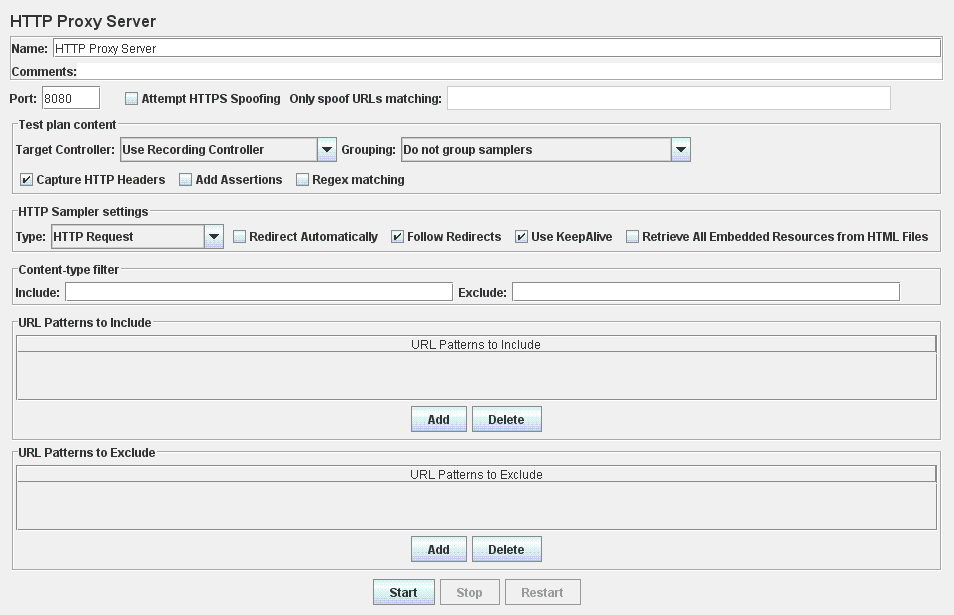
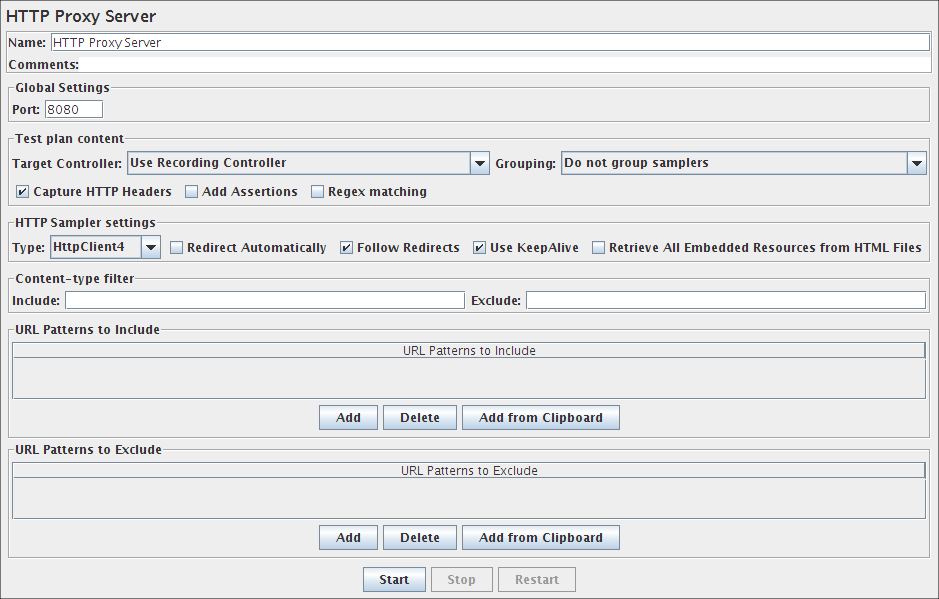
Removes HTTPS spoofing options in JMeter HTTP Proxy Server. Since JMeter 2.4, the HTTPS protocol is directly supported by the proxy Bugzilla Id: 53934
git-svn-id: https://svn.apache.org/repos/asf/jmeter/trunk@1390191 13f79535-47bb-0310-9956-ffa450edef68

Former-commit-id: 3f5d0f9fddb3ae9d57ec142e462b426c848c7ee4

Changed region(s): [[0.0, 0.0, 1.0, 1.0]]

diff --git a/src/protocol/http/org/apache/jmeter/protocol/http/proxy/Proxy.java b/src/protocol/http/org/apache/jmeter/protocol/http/proxy/Proxy.java
@@ -38,7 +38,6 @@ import java.security.UnrecoverableKeyException;
 import java.security.cert.CertificateException;
 import java.util.HashMap;
 import java.util.Map;
-import java.util.regex.Pattern;
 
 import javax.net.ssl.KeyManagerFactory;
 import javax.net.ssl.SSLContext;
@@ -112,8 +111,6 @@ public class Proxy extends Thread {
 
     private static final SamplerCreatorFactory factory = new SamplerCreatorFactory();
 
-    private static final Pattern COOKIE_SECURE_PATTERN = Pattern.compile("\\bsecure\\b", Pattern.CASE_INSENSITIVE);
-
     // Use with SSL connection
     private OutputStream outStreamClient = null;
 
@@ -131,11 +128,6 @@ public class Proxy extends Thread {
 
     /** Whether or not to capture the HTTP headers. */
     private boolean captureHttpHeaders;
-
-    /** Whether to try to spoof as https **/
-    private boolean httpsSpoof;
-
-    private String httpsSpoofMatch; // if non-empty, then URLs must match in order to be spoofed
 
     /** Reference to Deamon's Map of url string to page character encoding of that page */
     private Map<String, String> pageEncodings;
@@ -167,8 +159,6 @@ public class Proxy extends Thread {
         this.target = _target;
         this.clientSocket = _clientSocket;
         this.captureHttpHeaders = _target.getCaptureHttpHeaders();
-        this.httpsSpoof = _target.getHttpsSpoof();
-        this.httpsSpoofMatch = _target.getHttpsSpoofMatch();
         this.pageEncodings = _pageEncodings;
         this.formEncodings = _formEncodings;
     }
@@ -218,46 +208,15 @@ public class Proxy extends Thread {
             headers = request.getHeaderManager();
             sampler.setHeaderManager(headers);
 
-            /*
-             * If we are trying to spoof https, change the protocol
-             */
-            boolean forcedHTTPS = false; // so we know when to revert
-            if (httpsSpoof) {
-                if (httpsSpoofMatch.length() > 0){
-                    String url = request.getUrl();
-                    if (url.matches(httpsSpoofMatch)){
-                        sampler.setProtocol(HTTPConstants.PROTOCOL_HTTPS);
-                        forcedHTTPS = true;
-                    }
-                } else {
-                    sampler.setProtocol(HTTPConstants.PROTOCOL_HTTPS);
-                    forcedHTTPS = true;
-                }
-            }
             sampler.threadStarted(); // Needed for HTTPSampler2
             result = sampler.sample();
-
-            /*
-             * If we're dealing with text data, and if we're spoofing https,
-             * replace all occurences of "https://" with "http://" for the client.
-             * TODO - also check the match string to restrict the changes further?
-             */
-            if (httpsSpoof && SampleResult.TEXT.equals(result.getDataType()))
-            {
-                final String enc = result.getDataEncodingWithDefault();
-                String noHttpsResult = new String(result.getResponseData(),enc);
-                final String HTTPS_HOST = // match https://host[:port]/ and drop default port if present
-                    "https://([^:/]+)(:"+HTTPConstants.DEFAULT_HTTPS_PORT_STRING+")?"; // $NON-NLS-1$ $NON-NLS-2$
-                noHttpsResult = noHttpsResult.replaceAll(HTTPS_HOST, "http://$1"); // $NON-NLS-1$
-                result.setResponseData(noHttpsResult.getBytes(enc));
-            }
 
             // Find the page encoding and possibly encodings for forms in the page
             // in the response from the web server
             String pageEncoding = addPageEncoding(result);
             addFormEncodings(result, pageEncoding);
 
-            writeToClient(result, new BufferedOutputStream(clientSocket.getOutputStream()), forcedHTTPS);
+            writeToClient(result, new BufferedOutputStream(clientSocket.getOutputStream()));
         } catch (UnknownHostException uhe) {
             log.warn("Server Not Found.", uhe);
             writeErrorToClient(HttpReplyHdr.formServerNotFound());
@@ -437,9 +396,9 @@ public class Proxy extends Thread {
      * @throws IOException
      *             if an IOException occurs while writing
      */
-    private void writeToClient(SampleResult res, OutputStream out, boolean forcedHTTPS) throws IOException {
+    private void writeToClient(SampleResult res, OutputStream out) throws IOException {
         try {
-            String responseHeaders = messageResponseHeaders(res, forcedHTTPS);
+            String responseHeaders = messageResponseHeaders(res);
             out.write(responseHeaders.getBytes(SampleResult.DEFAULT_HTTP_ENCODING));
             out.write(CRLF_BYTES);
             out.write(res.getResponseData());
@@ -464,15 +423,14 @@ public class Proxy extends Thread {
      * The Transfer-Encoding header is also removed.
      * If the protocol was changed to HTTPS then change any Location header back to http
      * @param res - response
-     * @param forcedHTTPS  if we changed the protocol to https
      *
      * @return updated headers to be sent to client
      */
-    private String messageResponseHeaders(SampleResult res, boolean forcedHTTPS) {
+    private String messageResponseHeaders(SampleResult res) {
         String headers = res.getResponseHeaders();
         String [] headerLines=headers.split(NEW_LINE, 0); // drop empty trailing content
         int contentLengthIndex=-1;
-        boolean fixContentLength = forcedHTTPS;
+        boolean fixContentLength = false;
         for (int i=0;i<headerLines.length;i++){
             String line=headerLines[i];
             String[] parts=line.split(":\\s+",2); // $NON-NLS-1$
@@ -492,16 +450,6 @@ public class Proxy extends Thread {
                 if (HTTPConstants.HEADER_CONTENT_LENGTH.equalsIgnoreCase(parts[0])){
                     contentLengthIndex=i;
                     continue;
-                }
-                final String HTTPS_PREFIX = "https://";
-                if (forcedHTTPS && HTTPConstants.HEADER_LOCATION.equalsIgnoreCase(parts[0])
-                        && parts[1].substring(0, HTTPS_PREFIX.length()).equalsIgnoreCase(HTTPS_PREFIX)){
-                    headerLines[i]=headerLines[i].replaceFirst(parts[1].substring(0,HTTPS_PREFIX.length()), "http://");
-                    continue;
-                }
-                if (forcedHTTPS && (HTTPConstants.HEADER_COOKIE.equalsIgnoreCase(parts[0]) || HTTPConstants.HEADER_SET_COOKIE.equalsIgnoreCase(parts[0])))
-                {
-                    headerLines[i]=COOKIE_SECURE_PATTERN.matcher(headerLines[i]).replaceAll("").trim(); //in forced https cookies need to be unsecured...
                 }
             }
         }

diff --git a/src/protocol/http/org/apache/jmeter/protocol/http/proxy/gui/ProxyControlGui.java b/src/protocol/http/org/apache/jmeter/protocol/http/proxy/gui/ProxyControlGui.java
@@ -133,17 +133,6 @@ public class ProxyControlGui extends LogicControllerGui implements JMeterGUIComp
      */
     private JCheckBox samplerDownloadImages;
 
-    /*
-     * Spoof the client into thinking that it is communicating with http
-     * even if it is really https.
-     */
-    private JCheckBox httpsSpoof;
-
-    /*
-     * Only spoof the URLs that match (optional)
-     */
-    private JTextField httpsMatch;
-
     /**
      * Regular expression to include results based on content type
      */
@@ -246,8 +235,6 @@ public class ProxyControlGui extends LogicControllerGui implements JMeterGUIComp
             model.setUseKeepAlive(useKeepAlive.isSelected());
             model.setSamplerDownloadImages(samplerDownloadImages.isSelected());
             model.setRegexMatch(regexMatch.isSelected());
-            model.setHttpsSpoof(httpsSpoof.isSelected());
-            model.setHttpsSpoofMatch(httpsMatch.getText());
             model.setContentTypeInclude(contentTypeInclude.getText());
             model.setContentTypeExclude(contentTypeExclude.getText());
             TreeNodeWrapper nw = (TreeNodeWrapper) targetNodes.getSelectedItem();
@@ -306,9 +293,6 @@ public class ProxyControlGui extends LogicControllerGui implements JMeterGUIComp
         useKeepAlive.setSelected(model.getUseKeepalive());
         samplerDownloadImages.setSelected(model.getSamplerDownloadImages());
         regexMatch.setSelected(model.getRegexMatch());
-        httpsSpoof.setSelected(model.getHttpsSpoof());
-        httpsMatch.setText(model.getHttpsSpoofMatch());
-        httpsMatch.setEnabled(httpsSpoof.isSelected()); // Only valid if Spoof is selected
         contentTypeInclude.setText(model.getContentTypeInclude());
         contentTypeExclude.setText(model.getContentTypeExclude());
 
@@ -358,7 +342,6 @@ public class ProxyControlGui extends LogicControllerGui implements JMeterGUIComp
             startProxy();
         } else if (command.equals(ENABLE_RESTART)){
             enableRestart();
-            httpsMatch.setEnabled(httpsSpoof.isSelected()); // Only valid if Spoof is selected
         } else if (command.equals(ADD_EXCLUDE)) {
             excludeModel.addNewRow();
             excludeModel.fireTableDataChanged();
@@ -555,34 +538,17 @@ public class ProxyControlGui extends LogicControllerGui implements JMeterGUIComp
         JLabel label = new JLabel(JMeterUtils.getResString("port")); // $NON-NLS-1$
         label.setLabelFor(portField);
 
-        httpsSpoof = new JCheckBox(JMeterUtils.getResString("proxy_httpsspoofing")); // $NON-NLS-1$
-        httpsSpoof.setSelected(false);
-        httpsSpoof.addActionListener(this);
-        httpsSpoof.setActionCommand(ENABLE_RESTART);
-
-        httpsMatch = new JTextField(40);
-        httpsMatch.addKeyListener(this);
-        httpsMatch.setName(ENABLE_RESTART);
-        httpsMatch.setEnabled(false); // Only valid if Spoof is selected
-
-        JLabel matchlabel = new JLabel(JMeterUtils.getResString("proxy_httpsspoofing_match")); // $NON-NLS-1$
-        matchlabel.setLabelFor(httpsMatch);
-
-        
-        HorizontalPanel panel = new HorizontalPanel();
-        panel.setBorder(BorderFactory.createTitledBorder(BorderFactory.createEtchedBorder(),
+        JPanel gPane = new JPanel(new BorderLayout());
+        gPane.setBorder(BorderFactory.createTitledBorder(BorderFactory.createEtchedBorder(),
                 JMeterUtils.getResString("proxy_general_settings"))); // $NON-NLS-1$
 
+        HorizontalPanel panel = new HorizontalPanel();
         panel.add(label);
         panel.add(portField);
 
-        panel.add(Box.createHorizontalStrut(10));
-        panel.add(httpsSpoof);
-
-        panel.add(matchlabel);
-        panel.add(httpsMatch);
-
-        return panel;
+        gPane.add(panel, BorderLayout.WEST);
+        gPane.add(Box.createHorizontalStrut(10));
+        return gPane;
     }
 
     private JPanel createTestPlanContentPanel() {

diff --git a/src/protocol/http/org/apache/jmeter/protocol/http/proxy/ProxyControl.java b/src/protocol/http/org/apache/jmeter/protocol/http/proxy/ProxyControl.java
@@ -125,10 +125,6 @@ public class ProxyControl extends GenericController {
 
     private static final String REGEX_MATCH = "ProxyControlGui.regex_match"; // $NON-NLS-1$
 
-    private static final String HTTPS_SPOOF = "ProxyControlGui.https_spoof"; // $NON-NLS-1$
-
-    private static final String HTTPS_SPOOF_MATCH = "ProxyControlGui.https_spoof_match"; // $NON-NLS-1$
-
     private static final String CONTENT_TYPE_EXCLUDE = "ProxyControlGui.content_type_exclude"; // $NON-NLS-1$
 
     private static final String CONTENT_TYPE_INCLUDE = "ProxyControlGui.content_type_include"; // $NON-NLS-1$
@@ -250,14 +246,6 @@ public class ProxyControl extends GenericController {
         setProperty(new BooleanProperty(REGEX_MATCH, b));
     }
 
-    public void setHttpsSpoof(boolean b) {
-        setProperty(new BooleanProperty(HTTPS_SPOOF, b));
-    }
-
-    public void setHttpsSpoofMatch(String s) {
-        setProperty(new StringProperty(HTTPS_SPOOF_MATCH, s));
-    }
-
     public void setContentTypeExclude(String contentTypeExclude) {
         setProperty(new StringProperty(CONTENT_TYPE_EXCLUDE, contentTypeExclude));
     }
@@ -321,14 +309,6 @@ public class ProxyControl extends GenericController {
 
     public boolean getRegexMatch() {
         return getPropertyAsBoolean(REGEX_MATCH, false);
-    }
-
-    public boolean getHttpsSpoof() {
-        return getPropertyAsBoolean(HTTPS_SPOOF, false);
-    }
-
-    public String getHttpsSpoofMatch() {
-        return getPropertyAsString(HTTPS_SPOOF_MATCH, "");
     }
 
     public String getContentTypeExclude() {
